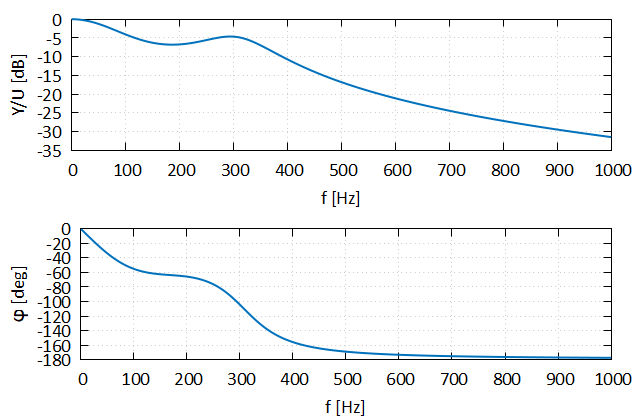
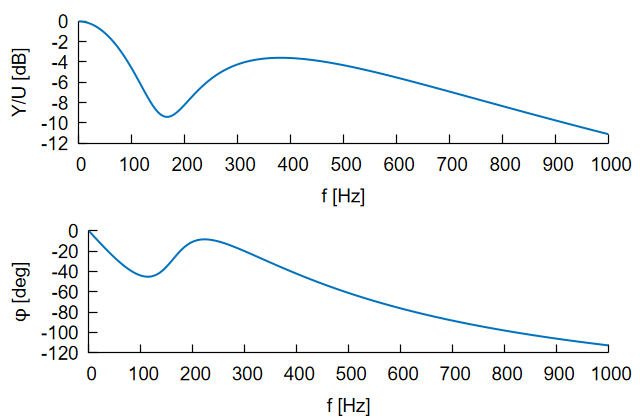
Refactor code structure and remove redundant sections for improved readability and maintainability

diff --git a/src/controls/README.md b/src/controls/README.md
@@ -2,7 +2,7 @@
 
 The `dynamics_controls` module provides continuous-time linear control-system tools:
 
-* `state_space` represents a system as \(\dot{x}=Ax+Bu,\; y=Cx+Du\). It has constructors for general matrix systems, second-order mass-damping-stiffness systems, and PID-controlled plants. Its methods evaluate derivatives and outputs and compute poles, zeros, and transfer functions.
+* `state_space` represents a system as $\dot{x}=Ax+Bu,\; y=Cx+Du$. It has constructors for general matrix systems, second-order mass-damping-stiffness systems, and PID-controlled plants. Its methods evaluate derivatives and outputs and compute poles, zeros, and transfer functions.
 * `transfer_function` and `polynomial` represent and combine scalar transfer functions. Transfer functions can be evaluated in the Laplace domain or at a supplied angular frequency, and converted to controllable or observable canonical state-space form.
 * `lti_solve` time-integrates a state-space system for a user-supplied excitation callback (`ss_excitation`). An optional ODE integrator and user data can also be supplied.
 
@@ -10,7 +10,7 @@ The `dynamics_controls` module provides continuous-time linear control-system to
 
 The [`pid_control_example_1`](../../examples/pid_control_example_1.f90) example closes a PID loop around a mass-spring-damper plant. It uses a square-wave reference, compares the closed-loop output to the command over 0.5 seconds, and evaluates the closed-loop transfer function over 1--1000 Hz.
 
-The example's `model` module defines the plant parameters and the square-wave reference. The mass, damping, and stiffness values are \(m=6.0\times10^{-4}\), \(b=2\zeta\sqrt{km}\), and \(k=2.0\times10^3\); \(\zeta=0.3\). The command has amplitude \(X=0.5\) and frequency \(f=5\) Hz:
+The example's `model` module defines the plant parameters and the square-wave reference. The mass, damping, and stiffness values are $m=6.0\times10^{-4}$, $b=2\zeta\sqrt{km}$, and $k=2.0\times10^3$; $\zeta=0.3$. The command has amplitude $X=0.5$ and frequency $f=5$ Hz:
 
 ```fortran
 subroutine command_signal(t, r, args)
@@ -29,10 +29,10 @@ use iso_fortran_env, only : real64
 use dynamics, only : state_space, ss_excitation, lti_solve
 use model, only : m, b, k, X, command_signal
 
-real(real64), parameter :: Kp = 8.0d-2
-real(real64), parameter :: Ki = 1.0d3
-real(real64), parameter :: Kd = 5.0d-4
-real(real64), parameter :: tau = 1.0d-3
+real(real64), parameter :: Kp = 0.551048902d0
+real(real64), parameter :: Ki = 1295.323281d0
+real(real64), parameter :: Kd = 1.086432759d-3
+real(real64), parameter :: tau = 1.369008811d-4
 real(real64), parameter :: tmax = 0.5d0
 type(state_space) :: plant, mdl
 procedure(ss_excitation), pointer :: fcn
@@ -50,9 +50,13 @@ sol = lti_solve(mdl, fcn, [0.0d0, tmax], ic)
 
 Here `Kp`, `Ki`, and `Kd` are the proportional, integral, and derivative gains. `tau` sets the derivative-filter time constant in the PID state-space model. The closed-loop model has four states: the plant position and velocity, the integral-error state, and the filtered derivative state. The example plots the output alongside the command; it also computes the model's poles and zeros.
 
+The gains and filter time constant are chosen by matching the closed-loop characteristic polynomial to four real poles at $-1400$, $-1600$, $-2200$, and $-3200$ per second, using the example's scaled displacement output $y=kXq$. This improves nominal square-wave tracking, at the cost of a larger force spike at each command edge. The example does not model actuator limits or sensor noise.
+
+The plots below were captured before this retuning. Run the example to see the updated response.
+
 ![Closed-loop output and square-wave command](../../images/pid_control_example_1.png?raw=true)
 
-The Bode plot is evaluated at angular frequencies \(\omega=2\pi f\), where `f` spans 1--1000 Hz. The code converts the transfer-function magnitude to dB with \(20\log_{10}|H|\) and the phase to degrees.
+The Bode plot is evaluated at angular frequencies $\omega=2\pi f$, where $f$ spans 1--1000 Hz. The code converts the transfer-function magnitude to dB with $20\log_{10}\lvert H\rvert$ and the phase to degrees.
 
 ![Closed-loop PID Bode magnitude and phase](../../images/pid_control_example_1_bode.png?raw=true)
 

diff --git a/src/frequency/README.md b/src/frequency/README.md
@@ -49,6 +49,19 @@ The computed frequency response functions. The frequency values passed to `frequ
 
 ![](../../images/frf_example_1.png?raw=true)
 
+## MIMO FRF Example
+
+[`mimo_frf_example_1`](../../examples/mimo_frf_example_1.f90) applies independent broadband forces to two coupled masses and records both displacements. Each column of the input and output arrays is a channel. The call below estimates all four force-to-displacement paths with the default H1 estimator and a Hann window:
+
+```fortran
+win%size = window_size
+rsp = frequency_response(forces%samples, solution(:,2:3), sample_rate, win = win)
+```
+
+`rsp%responses(output, input, :)` is the frequency response for one path. The example plots magnitude and phase for all four paths against the analytical receptance matrix $(K-\omega^2 M+i\omega C)^{-1}$ and reports their relative RMS errors over 10–300 Hz. Independent inputs matter here: driving both masses with the same signal would not let the estimator distinguish their contributions.
+
+![Estimated and analytical magnitude and phase for all four MIMO force-to-displacement paths](../../images/mimo_frf_example_1.png?raw=true)
+
 ## Nonlinear FRF Example
 Computing the frequency response function for a nonlinear system is not as straight-forward. A technique for capturing nonlinear behaviors, such as jump phenomenon, is to sweep through frequency, in both an ascending and a descending manner. The [`frf_sweep_example_1`](../../examples/frf_sweep_example_1.f90) example illustrates such a frequency sweep using the Duffing equation as the model.
 
